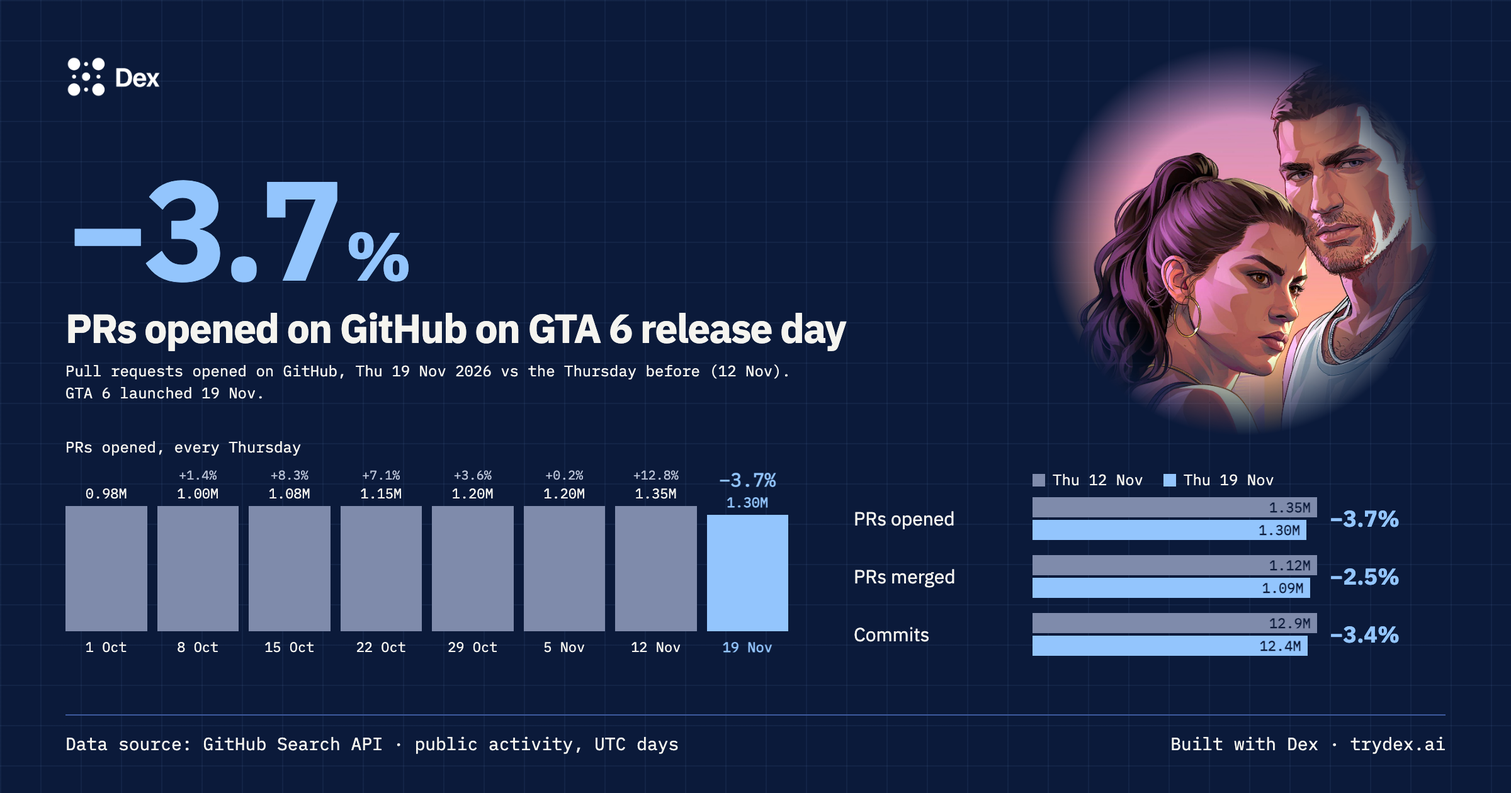
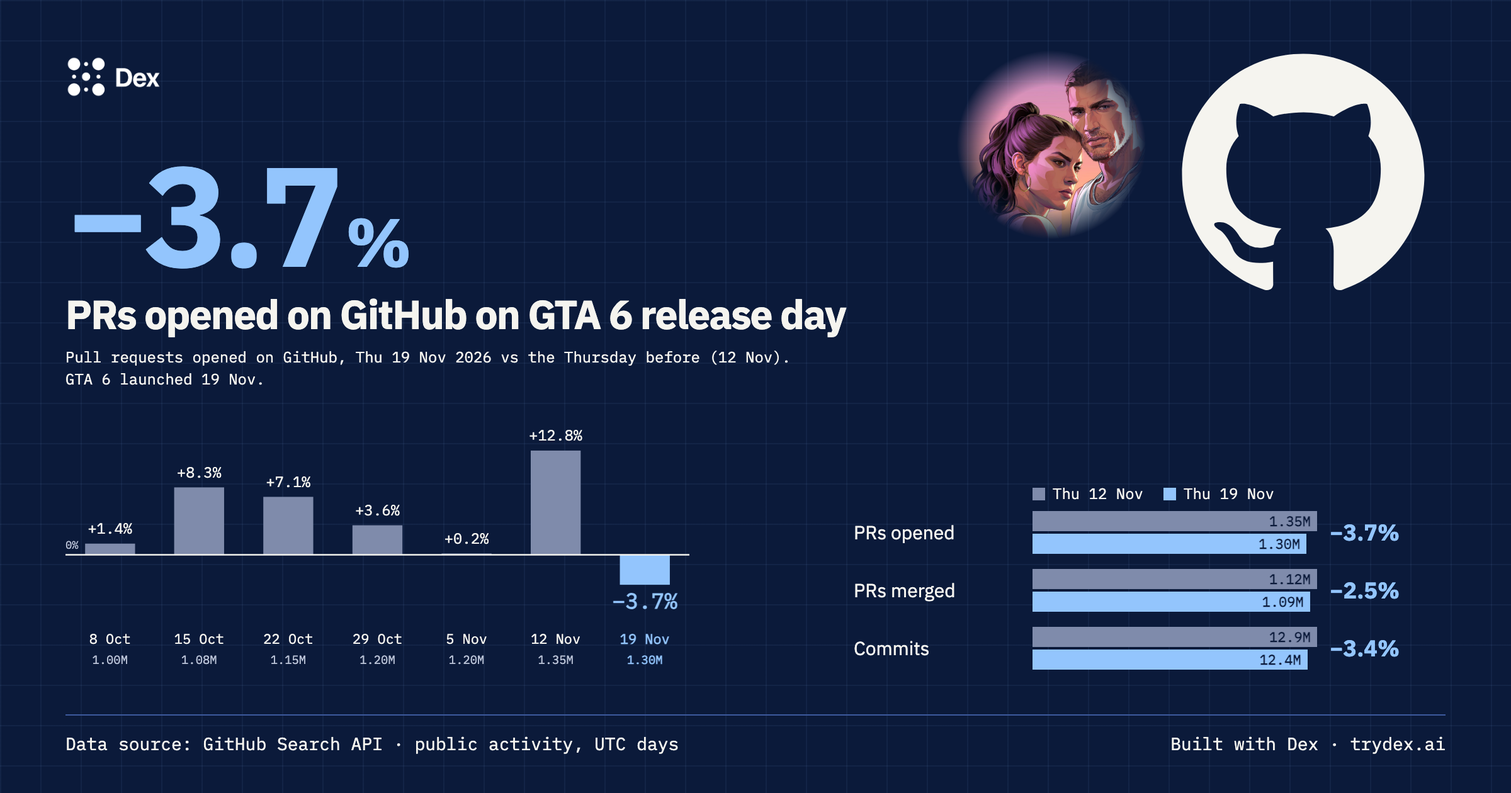
Fine-tuned GitHub metric presentation

diff --git a/charts/github-release-day-portrait-dark.html b/charts/github-release-day-portrait-dark.html
@@ -15,7 +15,7 @@
 <div class="card portrait decimals github" style="width:720px;height:900px">
   <figure class="aside">
     <img alt="Lucia and Jason, the two leads of GTA 6" src="../assets/gta-6-lucia-and-the-guy.jpg">
-  </figure>
+  </figure>  <figure class="gh-mark" aria-label="GitHub"><svg class="mark" fill="currentColor" xmlns="http://www.w3.org/2000/svg" width="24" height="24" viewBox="0 0 24 24" ><path d="M12 1C5.9225 1 1 5.9225 1 12C1 16.8675 4.14875 20.9787 8.52125 22.4362C9.07125 22.5325 9.2775 22.2025 9.2775 21.9137C9.2775 21.6525 9.26375 20.7862 9.26375 19.865C6.5 20.3737 5.785 19.1912 5.565 18.5725C5.44125 18.2562 4.905 17.28 4.4375 17.0187C4.0525 16.8125 3.5025 16.3037 4.42375 16.29C5.29 16.2762 5.90875 17.0875 6.115 17.4175C7.105 19.0812 8.68625 18.6137 9.31875 18.325C9.415 17.61 9.70375 17.1287 10.02 16.8537C7.5725 16.5787 5.015 15.63 5.015 11.4225C5.015 10.2262 5.44125 9.23625 6.1425 8.46625C6.0325 8.19125 5.6475 7.06375 6.2525 5.55125C6.2525 5.55125 7.17375 5.2625 9.2775 6.67875C10.1575 6.43125 11.0925 6.3075 12.0275 6.3075C12.9625 6.3075 13.8975 6.43125 14.7775 6.67875C16.8813 5.24875 17.8025 5.55125 17.8025 5.55125C18.4075 7.06375 18.0225 8.19125 17.9125 8.46625C18.6138 9.23625 19.04 10.2125 19.04 11.4225C19.04 15.6437 16.4688 16.5787 14.0213 16.8537C14.42 17.1975 14.7638 17.8575 14.7638 18.8887C14.7638 20.36 14.75 21.5425 14.75 21.9137C14.75 22.2025 14.9563 22.5462 15.5063 22.4362C19.8513 20.9787 23 16.8537 23 12C23 5.9225 18.0775 1 12 1Z"/></svg></figure>
   <div class="mast">
     <div class="brand"><img alt="Dex" src="../brand/assets/dex-logo-white.png"></div>
   </div>
@@ -29,10 +29,9 @@
         <span class="nw">the Thursday before (12 Nov)</span>.<br>GTA 6 launched 19 Nov.</p>
       </div>
       <div class="gh-bottom">
-        <div class="thu"><div class="cap">PRs opened, every Thursday</div><div class="cols"><div class="col"><span class="wow">&nbsp;</span><span class="v">0.98M</span><i style="height:72.7%"></i><span class="d">1 Oct</span></div><div class="col"><span class="wow">+1.4%</span><span class="v">1.00M</span><i style="height:73.7%"></i><span class="d">8 Oct</span></div><div class="col"><span class="wow">+8.3%</span><span class="v">1.08M</span><i style="height:79.8%"></i><span class="d">15 Oct</span></div><div class="col"><span class="wow">+7.1%</span><span class="v">1.15M</span><i style="height:85.4%"></i><span class="d">22 Oct</span></div><div class="col"><span class="wow">+3.6%</span><span class="v">1.20M</span><i style="height:88.5%"></i><span class="d">29 Oct</span></div><div class="col"><span class="wow">+0.2%</span><span class="v">1.20M</span><i style="height:88.7%"></i><span class="d">5 Nov</span></div><div class="col"><span class="wow">+12.8%</span><span class="v">1.35M</span><i style="height:100.0%"></i><span class="d">12 Nov</span></div><div class="col now"><span class="wow">−3.7%</span><span class="v">1.30M</span><i style="height:96.3%"></i><span class="d">19 Nov</span></div></div></div>
+        <div class="thu"><svg class="wow" viewBox="0 0 632 250" role="img" aria-label="PRs opened, each Thursday vs the Thursday before"><rect class="was" x="19.9" y="122.3" width="50.6" height="11.3"/><text class="pct was" x="45.1" y="112.3">+1.4%</text><text class="d was" x="45.1" y="224">8 Oct</text><text class="n was" x="45.1" y="244">1.00M</text><rect class="was" x="110.1" y="65.3" width="50.6" height="68.4"/><text class="pct was" x="135.4" y="55.3">+8.3%</text><text class="d was" x="135.4" y="224">15 Oct</text><text class="n was" x="135.4" y="244">1.08M</text><rect class="was" x="200.4" y="74.9" width="50.6" height="58.7"/><text class="pct was" x="225.7" y="64.9">+7.1%</text><text class="d was" x="225.7" y="224">22 Oct</text><text class="n was" x="225.7" y="244">1.15M</text><rect class="was" x="290.7" y="103.7" width="50.6" height="29.9"/><text class="pct was" x="316.0" y="93.7">+3.6%</text><text class="d was" x="316.0" y="224">29 Oct</text><text class="n was" x="316.0" y="244">1.20M</text><rect class="was" x="381.0" y="132.3" width="50.6" height="1.5"/><text class="pct was" x="406.3" y="122.3">+0.2%</text><text class="d was" x="406.3" y="224">5 Nov</text><text class="n was" x="406.3" y="244">1.20M</text><rect class="was" x="471.3" y="28.0" width="50.6" height="105.6"/><text class="pct was" x="496.6" y="18.0">+12.8%</text><text class="d was" x="496.6" y="224">12 Nov</text><text class="n was" x="496.6" y="244">1.35M</text><rect class="now" x="561.6" y="133.6" width="50.6" height="30.4"/><text class="pct now" x="586.9" y="188.0">−3.7%</text><text class="d now" x="586.9" y="224">19 Nov</text><text class="n now" x="586.9" y="244">1.30M</text><line class="zero" x1="0" x2="632" y1="133.6" y2="133.6"/><text class="zl" x="0" y="127.6">0%</text></svg></div>
         <div class="yoy"><div></div><div class="key"><span><i class="prior"></i>Thu 12 Nov</span><span><i class="current"></i>Thu 19 Nov</span></div><div class="term">PRs opened</div><div class="pair"><b class="prior" style="width:100.0%">1.35M</b><b class="current" style="width:96.3%">1.30M</b></div><div class="change">−3.7%</div><div class="term">PRs merged</div><div class="pair"><b class="prior" style="width:100.0%">1.12M</b><b class="current" style="width:97.5%">1.09M</b></div><div class="change">−2.5%</div><div class="term">Commits</div><div class="pair"><b class="prior" style="width:100.0%">12.9M</b><b class="current" style="width:96.6%">12.4M</b></div><div class="change">−3.4%</div></div>
-        <p class="gh-line">PRs merged −2.5% · Commits −3.4%, 19 Nov vs
-        12 Nov.</p>
+        <p class="gh-line">PRs merged −2.5% · Commits −3.4% · t-test vs trend: p = 0.04</p>
       </div>
     </div>
   </div>

diff --git a/charts/github-release-day-portrait.html b/charts/github-release-day-portrait.html
@@ -15,7 +15,7 @@
 <div class="card portrait decimals github" style="width:720px;height:900px">
   <figure class="aside">
     <img alt="Lucia and Jason, the two leads of GTA 6" src="../assets/gta-6-lucia-and-the-guy.jpg">
-  </figure>
+  </figure>  <figure class="gh-mark" aria-label="GitHub"><svg class="mark" fill="currentColor" xmlns="http://www.w3.org/2000/svg" width="24" height="24" viewBox="0 0 24 24" ><path d="M12 1C5.9225 1 1 5.9225 1 12C1 16.8675 4.14875 20.9787 8.52125 22.4362C9.07125 22.5325 9.2775 22.2025 9.2775 21.9137C9.2775 21.6525 9.26375 20.7862 9.26375 19.865C6.5 20.3737 5.785 19.1912 5.565 18.5725C5.44125 18.2562 4.905 17.28 4.4375 17.0187C4.0525 16.8125 3.5025 16.3037 4.42375 16.29C5.29 16.2762 5.90875 17.0875 6.115 17.4175C7.105 19.0812 8.68625 18.6137 9.31875 18.325C9.415 17.61 9.70375 17.1287 10.02 16.8537C7.5725 16.5787 5.015 15.63 5.015 11.4225C5.015 10.2262 5.44125 9.23625 6.1425 8.46625C6.0325 8.19125 5.6475 7.06375 6.2525 5.55125C6.2525 5.55125 7.17375 5.2625 9.2775 6.67875C10.1575 6.43125 11.0925 6.3075 12.0275 6.3075C12.9625 6.3075 13.8975 6.43125 14.7775 6.67875C16.8813 5.24875 17.8025 5.55125 17.8025 5.55125C18.4075 7.06375 18.0225 8.19125 17.9125 8.46625C18.6138 9.23625 19.04 10.2125 19.04 11.4225C19.04 15.6437 16.4688 16.5787 14.0213 16.8537C14.42 17.1975 14.7638 17.8575 14.7638 18.8887C14.7638 20.36 14.75 21.5425 14.75 21.9137C14.75 22.2025 14.9563 22.5462 15.5063 22.4362C19.8513 20.9787 23 16.8537 23 12C23 5.9225 18.0775 1 12 1Z"/></svg></figure>
   <div class="mast">
     <div class="brand"><img alt="Dex" src="../brand/assets/dex-logo-black.png"></div>
   </div>
@@ -29,10 +29,9 @@
         <span class="nw">the Thursday before (12 Nov)</span>.<br>GTA 6 launched 19 Nov.</p>
       </div>
       <div class="gh-bottom">
-        <div class="thu"><div class="cap">PRs opened, every Thursday</div><div class="cols"><div class="col"><span class="wow">&nbsp;</span><span class="v">0.98M</span><i style="height:72.7%"></i><span class="d">1 Oct</span></div><div class="col"><span class="wow">+1.4%</span><span class="v">1.00M</span><i style="height:73.7%"></i><span class="d">8 Oct</span></div><div class="col"><span class="wow">+8.3%</span><span class="v">1.08M</span><i style="height:79.8%"></i><span class="d">15 Oct</span></div><div class="col"><span class="wow">+7.1%</span><span class="v">1.15M</span><i style="height:85.4%"></i><span class="d">22 Oct</span></div><div class="col"><span class="wow">+3.6%</span><span class="v">1.20M</span><i style="height:88.5%"></i><span class="d">29 Oct</span></div><div class="col"><span class="wow">+0.2%</span><span class="v">1.20M</span><i style="height:88.7%"></i><span class="d">5 Nov</span></div><div class="col"><span class="wow">+12.8%</span><span class="v">1.35M</span><i style="height:100.0%"></i><span class="d">12 Nov</span></div><div class="col now"><span class="wow">−3.7%</span><span class="v">1.30M</span><i style="height:96.3%"></i><span class="d">19 Nov</span></div></div></div>
+        <div class="thu"><svg class="wow" viewBox="0 0 632 250" role="img" aria-label="PRs opened, each Thursday vs the Thursday before"><rect class="was" x="19.9" y="122.3" width="50.6" height="11.3"/><text class="pct was" x="45.1" y="112.3">+1.4%</text><text class="d was" x="45.1" y="224">8 Oct</text><text class="n was" x="45.1" y="244">1.00M</text><rect class="was" x="110.1" y="65.3" width="50.6" height="68.4"/><text class="pct was" x="135.4" y="55.3">+8.3%</text><text class="d was" x="135.4" y="224">15 Oct</text><text class="n was" x="135.4" y="244">1.08M</text><rect class="was" x="200.4" y="74.9" width="50.6" height="58.7"/><text class="pct was" x="225.7" y="64.9">+7.1%</text><text class="d was" x="225.7" y="224">22 Oct</text><text class="n was" x="225.7" y="244">1.15M</text><rect class="was" x="290.7" y="103.7" width="50.6" height="29.9"/><text class="pct was" x="316.0" y="93.7">+3.6%</text><text class="d was" x="316.0" y="224">29 Oct</text><text class="n was" x="316.0" y="244">1.20M</text><rect class="was" x="381.0" y="132.3" width="50.6" height="1.5"/><text class="pct was" x="406.3" y="122.3">+0.2%</text><text class="d was" x="406.3" y="224">5 Nov</text><text class="n was" x="406.3" y="244">1.20M</text><rect class="was" x="471.3" y="28.0" width="50.6" height="105.6"/><text class="pct was" x="496.6" y="18.0">+12.8%</text><text class="d was" x="496.6" y="224">12 Nov</text><text class="n was" x="496.6" y="244">1.35M</text><rect class="now" x="561.6" y="133.6" width="50.6" height="30.4"/><text class="pct now" x="586.9" y="188.0">−3.7%</text><text class="d now" x="586.9" y="224">19 Nov</text><text class="n now" x="586.9" y="244">1.30M</text><line class="zero" x1="0" x2="632" y1="133.6" y2="133.6"/><text class="zl" x="0" y="127.6">0%</text></svg></div>
         <div class="yoy"><div></div><div class="key"><span><i class="prior"></i>Thu 12 Nov</span><span><i class="current"></i>Thu 19 Nov</span></div><div class="term">PRs opened</div><div class="pair"><b class="prior" style="width:100.0%">1.35M</b><b class="current" style="width:96.3%">1.30M</b></div><div class="change">−3.7%</div><div class="term">PRs merged</div><div class="pair"><b class="prior" style="width:100.0%">1.12M</b><b class="current" style="width:97.5%">1.09M</b></div><div class="change">−2.5%</div><div class="term">Commits</div><div class="pair"><b class="prior" style="width:100.0%">12.9M</b><b class="current" style="width:96.6%">12.4M</b></div><div class="change">−3.4%</div></div>
-        <p class="gh-line">PRs merged −2.5% · Commits −3.4%, 19 Nov vs
-        12 Nov.</p>
+        <p class="gh-line">PRs merged −2.5% · Commits −3.4% · t-test vs trend: p = 0.04</p>
       </div>
     </div>
   </div>

diff --git a/charts/github-release-day-dark.html b/charts/github-release-day-dark.html
@@ -15,7 +15,7 @@
 <div class="card decimals github" style="width:1200px;height:630px">
   <figure class="aside">
     <img alt="Lucia and Jason, the two leads of GTA 6" src="../assets/gta-6-lucia-and-the-guy.jpg">
-  </figure>
+  </figure>  <figure class="gh-mark" aria-label="GitHub"><svg class="mark" fill="currentColor" xmlns="http://www.w3.org/2000/svg" width="24" height="24" viewBox="0 0 24 24" ><path d="M12 1C5.9225 1 1 5.9225 1 12C1 16.8675 4.14875 20.9787 8.52125 22.4362C9.07125 22.5325 9.2775 22.2025 9.2775 21.9137C9.2775 21.6525 9.26375 20.7862 9.26375 19.865C6.5 20.3737 5.785 19.1912 5.565 18.5725C5.44125 18.2562 4.905 17.28 4.4375 17.0187C4.0525 16.8125 3.5025 16.3037 4.42375 16.29C5.29 16.2762 5.90875 17.0875 6.115 17.4175C7.105 19.0812 8.68625 18.6137 9.31875 18.325C9.415 17.61 9.70375 17.1287 10.02 16.8537C7.5725 16.5787 5.015 15.63 5.015 11.4225C5.015 10.2262 5.44125 9.23625 6.1425 8.46625C6.0325 8.19125 5.6475 7.06375 6.2525 5.55125C6.2525 5.55125 7.17375 5.2625 9.2775 6.67875C10.1575 6.43125 11.0925 6.3075 12.0275 6.3075C12.9625 6.3075 13.8975 6.43125 14.7775 6.67875C16.8813 5.24875 17.8025 5.55125 17.8025 5.55125C18.4075 7.06375 18.0225 8.19125 17.9125 8.46625C18.6138 9.23625 19.04 10.2125 19.04 11.4225C19.04 15.6437 16.4688 16.5787 14.0213 16.8537C14.42 17.1975 14.7638 17.8575 14.7638 18.8887C14.7638 20.36 14.75 21.5425 14.75 21.9137C14.75 22.2025 14.9563 22.5462 15.5063 22.4362C19.8513 20.9787 23 16.8537 23 12C23 5.9225 18.0775 1 12 1Z"/></svg></figure>
   <div class="mast">
     <div class="brand"><img alt="Dex" src="../brand/assets/dex-logo-white.png"></div>
   </div>
@@ -29,10 +29,9 @@
         <span class="nw">the Thursday before (12 Nov)</span>.<br>GTA 6 launched 19 Nov.</p>
       </div>
       <div class="gh-bottom">
-        <div class="thu"><div class="cap">PRs opened, every Thursday</div><div class="cols"><div class="col"><span class="wow">&nbsp;</span><span class="v">0.98M</span><i style="height:72.7%"></i><span class="d">1 Oct</span></div><div class="col"><span class="wow">+1.4%</span><span class="v">1.00M</span><i style="height:73.7%"></i><span class="d">8 Oct</span></div><div class="col"><span class="wow">+8.3%</span><span class="v">1.08M</span><i style="height:79.8%"></i><span class="d">15 Oct</span></div><div class="col"><span class="wow">+7.1%</span><span class="v">1.15M</span><i style="height:85.4%"></i><span class="d">22 Oct</span></div><div class="col"><span class="wow">+3.6%</span><span class="v">1.20M</span><i style="height:88.5%"></i><span class="d">29 Oct</span></div><div class="col"><span class="wow">+0.2%</span><span class="v">1.20M</span><i style="height:88.7%"></i><span class="d">5 Nov</span></div><div class="col"><span class="wow">+12.8%</span><span class="v">1.35M</span><i style="height:100.0%"></i><span class="d">12 Nov</span></div><div class="col now"><span class="wow">−3.7%</span><span class="v">1.30M</span><i style="height:96.3%"></i><span class="d">19 Nov</span></div></div></div>
+        <div class="thu"><svg class="wow" viewBox="0 0 632 250" role="img" aria-label="PRs opened, each Thursday vs the Thursday before"><rect class="was" x="19.9" y="122.3" width="50.6" height="11.3"/><text class="pct was" x="45.1" y="112.3">+1.4%</text><text class="d was" x="45.1" y="224">8 Oct</text><text class="n was" x="45.1" y="244">1.00M</text><rect class="was" x="110.1" y="65.3" width="50.6" height="68.4"/><text class="pct was" x="135.4" y="55.3">+8.3%</text><text class="d was" x="135.4" y="224">15 Oct</text><text class="n was" x="135.4" y="244">1.08M</text><rect class="was" x="200.4" y="74.9" width="50.6" height="58.7"/><text class="pct was" x="225.7" y="64.9">+7.1%</text><text class="d was" x="225.7" y="224">22 Oct</text><text class="n was" x="225.7" y="244">1.15M</text><rect class="was" x="290.7" y="103.7" width="50.6" height="29.9"/><text class="pct was" x="316.0" y="93.7">+3.6%</text><text class="d was" x="316.0" y="224">29 Oct</text><text class="n was" x="316.0" y="244">1.20M</text><rect class="was" x="381.0" y="132.3" width="50.6" height="1.5"/><text class="pct was" x="406.3" y="122.3">+0.2%</text><text class="d was" x="406.3" y="224">5 Nov</text><text class="n was" x="406.3" y="244">1.20M</text><rect class="was" x="471.3" y="28.0" width="50.6" height="105.6"/><text class="pct was" x="496.6" y="18.0">+12.8%</text><text class="d was" x="496.6" y="224">12 Nov</text><text class="n was" x="496.6" y="244">1.35M</text><rect class="now" x="561.6" y="133.6" width="50.6" height="30.4"/><text class="pct now" x="586.9" y="188.0">−3.7%</text><text class="d now" x="586.9" y="224">19 Nov</text><text class="n now" x="586.9" y="244">1.30M</text><line class="zero" x1="0" x2="632" y1="133.6" y2="133.6"/><text class="zl" x="0" y="127.6">0%</text></svg></div>
         <div class="yoy"><div></div><div class="key"><span><i class="prior"></i>Thu 12 Nov</span><span><i class="current"></i>Thu 19 Nov</span></div><div class="term">PRs opened</div><div class="pair"><b class="prior" style="width:100.0%">1.35M</b><b class="current" style="width:96.3%">1.30M</b></div><div class="change">−3.7%</div><div class="term">PRs merged</div><div class="pair"><b class="prior" style="width:100.0%">1.12M</b><b class="current" style="width:97.5%">1.09M</b></div><div class="change">−2.5%</div><div class="term">Commits</div><div class="pair"><b class="prior" style="width:100.0%">12.9M</b><b class="current" style="width:96.6%">12.4M</b></div><div class="change">−3.4%</div></div>
-        <p class="gh-line">PRs merged −2.5% · Commits −3.4%, 19 Nov vs
-        12 Nov.</p>
+        <p class="gh-line">PRs merged −2.5% · Commits −3.4% · t-test vs trend: p = 0.04</p>
       </div>
     </div>
   </div>

diff --git a/charts/github-release-day.html b/charts/github-release-day.html
@@ -15,7 +15,7 @@
 <div class="card decimals github" style="width:1200px;height:630px">
   <figure class="aside">
     <img alt="Lucia and Jason, the two leads of GTA 6" src="../assets/gta-6-lucia-and-the-guy.jpg">
-  </figure>
+  </figure>  <figure class="gh-mark" aria-label="GitHub"><svg class="mark" fill="currentColor" xmlns="http://www.w3.org/2000/svg" width="24" height="24" viewBox="0 0 24 24" ><path d="M12 1C5.9225 1 1 5.9225 1 12C1 16.8675 4.14875 20.9787 8.52125 22.4362C9.07125 22.5325 9.2775 22.2025 9.2775 21.9137C9.2775 21.6525 9.26375 20.7862 9.26375 19.865C6.5 20.3737 5.785 19.1912 5.565 18.5725C5.44125 18.2562 4.905 17.28 4.4375 17.0187C4.0525 16.8125 3.5025 16.3037 4.42375 16.29C5.29 16.2762 5.90875 17.0875 6.115 17.4175C7.105 19.0812 8.68625 18.6137 9.31875 18.325C9.415 17.61 9.70375 17.1287 10.02 16.8537C7.5725 16.5787 5.015 15.63 5.015 11.4225C5.015 10.2262 5.44125 9.23625 6.1425 8.46625C6.0325 8.19125 5.6475 7.06375 6.2525 5.55125C6.2525 5.55125 7.17375 5.2625 9.2775 6.67875C10.1575 6.43125 11.0925 6.3075 12.0275 6.3075C12.9625 6.3075 13.8975 6.43125 14.7775 6.67875C16.8813 5.24875 17.8025 5.55125 17.8025 5.55125C18.4075 7.06375 18.0225 8.19125 17.9125 8.46625C18.6138 9.23625 19.04 10.2125 19.04 11.4225C19.04 15.6437 16.4688 16.5787 14.0213 16.8537C14.42 17.1975 14.7638 17.8575 14.7638 18.8887C14.7638 20.36 14.75 21.5425 14.75 21.9137C14.75 22.2025 14.9563 22.5462 15.5063 22.4362C19.8513 20.9787 23 16.8537 23 12C23 5.9225 18.0775 1 12 1Z"/></svg></figure>
   <div class="mast">
     <div class="brand"><img alt="Dex" src="../brand/assets/dex-logo-black.png"></div>
   </div>
@@ -29,10 +29,9 @@
         <span class="nw">the Thursday before (12 Nov)</span>.<br>GTA 6 launched 19 Nov.</p>
       </div>
       <div class="gh-bottom">
-        <div class="thu"><div class="cap">PRs opened, every Thursday</div><div class="cols"><div class="col"><span class="wow">&nbsp;</span><span class="v">0.98M</span><i style="height:72.7%"></i><span class="d">1 Oct</span></div><div class="col"><span class="wow">+1.4%</span><span class="v">1.00M</span><i style="height:73.7%"></i><span class="d">8 Oct</span></div><div class="col"><span class="wow">+8.3%</span><span class="v">1.08M</span><i style="height:79.8%"></i><span class="d">15 Oct</span></div><div class="col"><span class="wow">+7.1%</span><span class="v">1.15M</span><i style="height:85.4%"></i><span class="d">22 Oct</span></div><div class="col"><span class="wow">+3.6%</span><span class="v">1.20M</span><i style="height:88.5%"></i><span class="d">29 Oct</span></div><div class="col"><span class="wow">+0.2%</span><span class="v">1.20M</span><i style="height:88.7%"></i><span class="d">5 Nov</span></div><div class="col"><span class="wow">+12.8%</span><span class="v">1.35M</span><i style="height:100.0%"></i><span class="d">12 Nov</span></div><div class="col now"><span class="wow">−3.7%</span><span class="v">1.30M</span><i style="height:96.3%"></i><span class="d">19 Nov</span></div></div></div>
+        <div class="thu"><svg class="wow" viewBox="0 0 632 250" role="img" aria-label="PRs opened, each Thursday vs the Thursday before"><rect class="was" x="19.9" y="122.3" width="50.6" height="11.3"/><text class="pct was" x="45.1" y="112.3">+1.4%</text><text class="d was" x="45.1" y="224">8 Oct</text><text class="n was" x="45.1" y="244">1.00M</text><rect class="was" x="110.1" y="65.3" width="50.6" height="68.4"/><text class="pct was" x="135.4" y="55.3">+8.3%</text><text class="d was" x="135.4" y="224">15 Oct</text><text class="n was" x="135.4" y="244">1.08M</text><rect class="was" x="200.4" y="74.9" width="50.6" height="58.7"/><text class="pct was" x="225.7" y="64.9">+7.1%</text><text class="d was" x="225.7" y="224">22 Oct</text><text class="n was" x="225.7" y="244">1.15M</text><rect class="was" x="290.7" y="103.7" width="50.6" height="29.9"/><text class="pct was" x="316.0" y="93.7">+3.6%</text><text class="d was" x="316.0" y="224">29 Oct</text><text class="n was" x="316.0" y="244">1.20M</text><rect class="was" x="381.0" y="132.3" width="50.6" height="1.5"/><text class="pct was" x="406.3" y="122.3">+0.2%</text><text class="d was" x="406.3" y="224">5 Nov</text><text class="n was" x="406.3" y="244">1.20M</text><rect class="was" x="471.3" y="28.0" width="50.6" height="105.6"/><text class="pct was" x="496.6" y="18.0">+12.8%</text><text class="d was" x="496.6" y="224">12 Nov</text><text class="n was" x="496.6" y="244">1.35M</text><rect class="now" x="561.6" y="133.6" width="50.6" height="30.4"/><text class="pct now" x="586.9" y="188.0">−3.7%</text><text class="d now" x="586.9" y="224">19 Nov</text><text class="n now" x="586.9" y="244">1.30M</text><line class="zero" x1="0" x2="632" y1="133.6" y2="133.6"/><text class="zl" x="0" y="127.6">0%</text></svg></div>
         <div class="yoy"><div></div><div class="key"><span><i class="prior"></i>Thu 12 Nov</span><span><i class="current"></i>Thu 19 Nov</span></div><div class="term">PRs opened</div><div class="pair"><b class="prior" style="width:100.0%">1.35M</b><b class="current" style="width:96.3%">1.30M</b></div><div class="change">−3.7%</div><div class="term">PRs merged</div><div class="pair"><b class="prior" style="width:100.0%">1.12M</b><b class="current" style="width:97.5%">1.09M</b></div><div class="change">−2.5%</div><div class="term">Commits</div><div class="pair"><b class="prior" style="width:100.0%">12.9M</b><b class="current" style="width:96.6%">12.4M</b></div><div class="change">−3.4%</div></div>
-        <p class="gh-line">PRs merged −2.5% · Commits −3.4%, 19 Nov vs
-        12 Nov.</p>
+        <p class="gh-line">PRs merged −2.5% · Commits −3.4% · t-test vs trend: p = 0.04</p>
       </div>
     </div>
   </div>

diff --git a/brand/charts.css b/brand/charts.css
@@ -235,24 +235,34 @@ h1 .red { color: var(--dex-redline); }
 .gh-bottom .yoy .pair { gap: 2px; }
 .gh-bottom .yoy .pair b { height: 16px; font-size: 11px; padding-right: 5px; }
 .gh-bottom .yoy .change { font-size: 18px; }
-.thu .cap { font: 12px var(--font-mono); color: var(--dex-ink); margin-bottom: 8px; }
-.thu .cols { display: flex; align-items: flex-end; gap: 8px; height: 150px; }
-.thu .col { flex: 1; height: 100%; display: flex; flex-direction: column; justify-content: flex-end; align-items: stretch; text-align: center; }
-.thu .col i { display: block; background: var(--dex-ink-faint); min-height: 2px; }
-.thu .col .v { font: 11px var(--font-mono); color: var(--dex-ink); margin-bottom: 3px; }
-.thu .col .wow { font: 10px var(--font-mono); color: var(--dex-ink-muted); margin-bottom: 1px; }
-.thu .col .d { font: 11px var(--font-mono); color: var(--dex-ink); margin-top: 5px; }
-.thu .col.now i { background: var(--accent); }
-.thu .col.now .v, .thu .col.now .d { color: var(--accent); font-weight: 700; }
-.thu .col.now .wow { color: var(--accent); font: 700 15px var(--font-mono); }
+.thu svg.wow { display: block; width: 100%; height: auto; overflow: visible; }
+.wow rect.was { fill: var(--dex-ink-faint); }
+.wow rect.now { fill: var(--accent); }
+.wow .zero { stroke: var(--dex-ink); stroke-width: 1.5; }
+.wow .zl { fill: var(--dex-ink-muted); font: 11px var(--font-mono); }
+.wow text.zl { text-anchor: start; }
+.wow text { text-anchor: middle; font-family: var(--font-mono); }
+.wow .pct { fill: var(--dex-ink); font-size: 15px; }
+.wow .pct.now { fill: var(--accent); font-size: 22px; font-weight: 700; }
+.wow .d { fill: var(--dex-ink); font-size: 14px; }
+.wow .n { fill: var(--dex-ink-muted); font-size: 12px; }
+.wow .now.d, .wow .now.n { fill: var(--accent); font-weight: 700; }
+/* GitHub's mark, big, in the top right; the GTA 6 art tucks in as a small badge on it */
+.gh-mark { position: absolute; margin: 0; color: var(--dex-ink); pointer-events: none;
+  top: 40px; right: 64px; width: 250px; height: 250px; }
+.gh-mark svg { width: 100%; height: 100%; display: block; }
+.card.github .aside { top: 196px; right: 266px; width: 150px; height: 150px; }
+.card.portrait .gh-mark { top: 70px; right: 36px; width: 230px; height: 230px; }
+.card.portrait.github .aside { top: 18px; right: 250px; width: 150px; height: 150px; }
+.card.portrait.github .big { margin-top: 26px; }
+.card.portrait.github .hero { justify-content: flex-start; }
+.card.portrait.github .gh-bottom { margin-top: auto; }
 .card.github .hero { gap: 26px; }
 .gh-line { display: none; }
 .card.portrait .gh-bottom { grid-template-columns: 1fr; row-gap: 12px; }
 .card.portrait .gh-bottom .yoy { display: none; }
 .card.portrait .gh-line { display: block; margin: 0; font: 14px var(--font-mono); color: var(--dex-ink); }
-.card.portrait.github .hero h1 { margin-top: 64px; }
-.card.portrait .thu .cols { height: 200px; gap: 10px; }
-.card.portrait .thu .col .v, .card.portrait .thu .col .d { font-size: 12px; }
-.card.portrait .thu .col .wow { font-size: 11px; }
-.card.portrait .thu .col.now .wow { font-size: 17px; }
-.card.portrait .thu .cap { font-size: 13px; }
+.card.portrait.github .hero h1 { margin-top: 52px; }
+.card.github:not(.portrait) .thu svg.wow { width: auto; height: 196px; max-width: 100%; }
+.card.github:not(.portrait) .gh-mark { top: 34px; right: 60px; width: 210px; height: 210px; }
+.card.github:not(.portrait) .aside { top: 40px; right: 290px; width: 150px; height: 150px; }

diff --git a/src/gta6_impact/charts/build.py b/src/gta6_impact/charts/build.py
@@ -251,25 +251,55 @@ def _github_bars(rows: list[dict], prior: str, current: str) -> str:
 
 
 def _thursdays(series: list[dict], release: dt.date) -> str:
-    """PRs opened on each Thursday up to release day, from zero, release day in the accent. Each
-    column carries its change on the week before, so the run of rises and the drop read at once."""
-    top = max(r["github_activity_count"] for r in series) or 1
-    cols = []
-    for r in series:
-        day = _day(r["metric_time__day"])
-        wow = r["github_activity_change_wow"]
-        cls = "col now" if day == release else "col"
-        delta = f"{_signed(wow)}%" if wow is not None else "&nbsp;"
-        cols.append(
-            f'<div class="{cls}"><span class="wow">{delta}</span>'
-            f'<span class="v">{_millions(r["github_activity_count"])}</span>'
-            f'<i style="height:{100 * r["github_activity_count"] / top:.1f}%"></i>'
-            f'<span class="d">{_short(day)}</span></div>'
+    """PRs opened on every Thursday in the data, as the change on the Thursday before.
+
+    The bars start at zero change, so a drop points down and every rise points up, at their
+    true sizes on one linear scale; each Thursday's count sits under its date. The first
+    Thursday has nothing to compare with, so it is not drawn.
+    """
+    shown = [r for r in series if r["github_activity_change_wow"] is not None]
+    label = f"PRs opened, each {release:%A} vs the {release:%A} before"
+    w, h = 632, 250
+    top_pad, label_h, foot_h = 28, 30, 56
+    values = [r["github_activity_change_wow"] for r in shown]
+    hi, lo = max(0.0, *values), min(0.0, *values)
+    plot_h = h - top_pad - foot_h - label_h
+    k = plot_h / ((hi - lo) or 1)
+    zero = top_pad + hi * k
+    step = w / len(shown)
+    bar = step * 0.56
+    marks = []
+    for i, r in enumerate(shown):
+        day, v = _day(r["metric_time__day"]), r["github_activity_change_wow"]
+        cls = "now" if day == release else "was"
+        x = i * step + (step - bar) / 2
+        cx = x + bar / 2
+        y, bh = (zero - v * k, v * k) if v >= 0 else (zero, -v * k)
+        ly = y - 10 if v >= 0 else y + bh + 24
+        marks.append(
+            f'<rect class="{cls}" x="{x:.1f}" y="{y:.1f}" width="{bar:.1f}" '
+            f'height="{max(bh, 1.5):.1f}"/>'
+            f'<text class="pct {cls}" x="{cx:.1f}" y="{ly:.1f}">{_signed(v)}%</text>'
+            f'<text class="d {cls}" x="{cx:.1f}" y="{h - 26}">{_short(day)}</text>'
+            f'<text class="n {cls}" x="{cx:.1f}" y="{h - 6}">'
+            f"{_millions(r['github_activity_count'])}</text>"
         )
-    return (
-        f'<div class="thu"><div class="cap">PRs opened, every {release:%A}</div>'
-        f'<div class="cols">{"".join(cols)}</div></div>'
+    svg = (
+        f'<svg class="wow" viewBox="0 0 {w} {h}" role="img" aria-label="{escape(label)}">'
+        f'{"".join(marks)}<line class="zero" x1="0" x2="{w}" y1="{zero:.1f}" y2="{zero:.1f}"/>'
+        f'<text class="zl" x="0" y="{zero - 6:.1f}">0%</text></svg>'
     )
+    return f'<div class="thu">{svg}</div>'
+
+
+def _github_mark() -> str:
+    """GitHub's mark, inlined so it takes the theme's ink. A third-party trademark: kept local in
+    brand/third-party/ (gitignored) and drawn only when present."""
+    path = ROOT / "brand" / "third-party" / "github-mark.svg"
+    if not path.exists():
+        return ""
+    svg = path.read_text().replace("<svg ", '<svg class="mark" fill="currentColor" ', 1)
+    return f'  <figure class="gh-mark" aria-label="GitHub">{svg}</figure>'
 
 
 def _significance() -> dict | None:
@@ -372,6 +402,11 @@ def github_card(png: bool) -> dict | None:
         if r["github_activity__activity"] != "prs_opened"
         and r["github_activity_change"] is not None
     )
+    # The release-day t-test, as one short line: context, never the headline.
+    test = data["significance"]
+    sig = ""
+    if test is not None:
+        sig = f" · t-test vs trend: p = {test['p_one_sided']:.2f}"
     body = f"""    <div class="hero">
       <div>
         <div class="big">{big}</div>
@@ -383,13 +418,12 @@ def github_card(png: bool) -> dict | None:
       <div class="gh-bottom">
         {_thursdays(series, release)}
         {_github_bars(rows, legend, f"{release:%a %-d %b}")}
-        <p class="gh-line">{escape(others)}, {escape(f"{release:%-d %b}")} vs
-        {escape(_short(first))}.</p>
+        <p class="gh-line">{escape(others)}{sig}</p>
       </div>
     </div>"""
-    aside = """  <figure class="aside">
+    aside = f"""  <figure class="aside">
     <img alt="Lucia and Jason, the two leads of GTA 6" src="../assets/gta-6-lucia-and-the-guy.jpg">
-  </figure>"""
+  </figure>{_github_mark()}"""
     for name, w, h, variant in (
         ("github-release-day", 1200, 630, "decimals github"),
         ("github-release-day-portrait", 720, 900, "portrait decimals github"),
